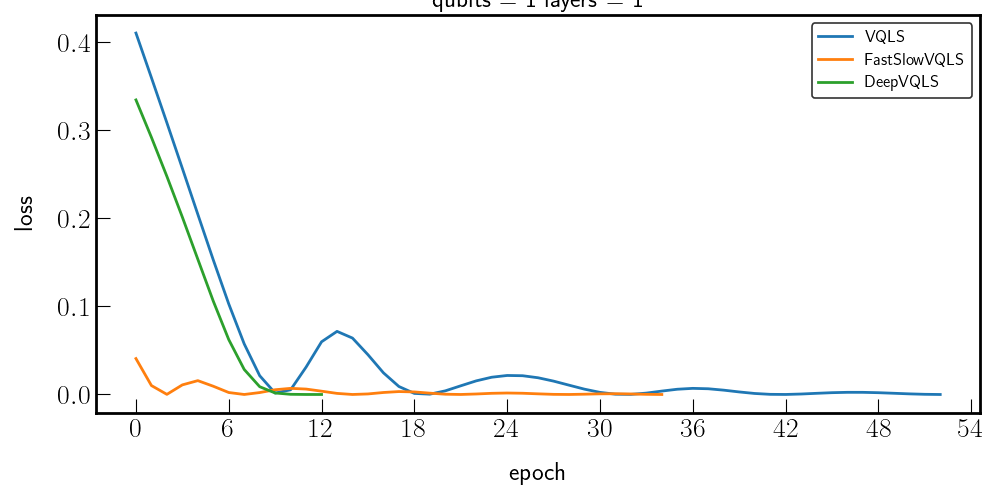
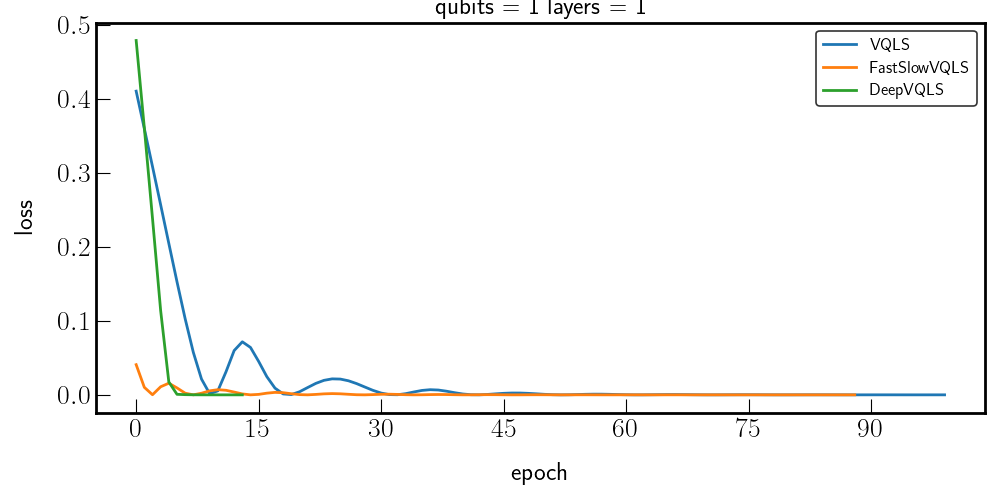
minor changes

diff --git a/examples/example_vqls_variations.py b/examples/example_vqls_variations.py
@@ -38,11 +38,11 @@ prep_ = MottonenStatePrep(wires=range(nqubits))
 
 # setup VQLS solvers
 solver1.setup(optimizer=AdamQML(), ansatz=ansatz_, stateprep=prep_, backend=DefaultQubit(wires=nqubits + 1),
-              epochs=maxiter, tol=1e-5)
+              epochs=maxiter, tol=1e-7)
 solver2.setup(optimizer=AdamQML(), ansatz=ansatz_, stateprep=prep_, backend=DefaultQubit(wires=nqubits + 1),
-              epochs=maxiter, epochs_bo=None, tol=1e-5)
+              epochs=maxiter, epochs_bo=None, tol=1e-7)
 solver3.setup(optimizer=SGDTorch(), ansatz=ansatz_, stateprep=prep_, backend=DefaultQubitTorch(wires=nqubits + 1),
-              epochs=maxiter, tol=1e-5)
+              epochs=maxiter, tol=1e-7, nhidden=16, ninputs=8)
 
 # solve linear systems
 xopt1 = solver1.solve()

diff --git a/src/solver/quantum/vqls/vqls.py b/src/solver/quantum/vqls/vqls.py
@@ -357,10 +357,10 @@ class VQLS(Solver):
             pass
 
         # Step 4: Calculate the optimal scaling factor mu
-        Ax_normed = self.A @ x
+        Ax_normed = self.A @ x  # O(n^2)
         mu = self.bnorm / np.linalg.norm(Ax_normed)
 
         # Step 5: Scale x_normed to get the original solution x
-        x = mu * x
+        x = mu * x  # O(n)
 
         return x
